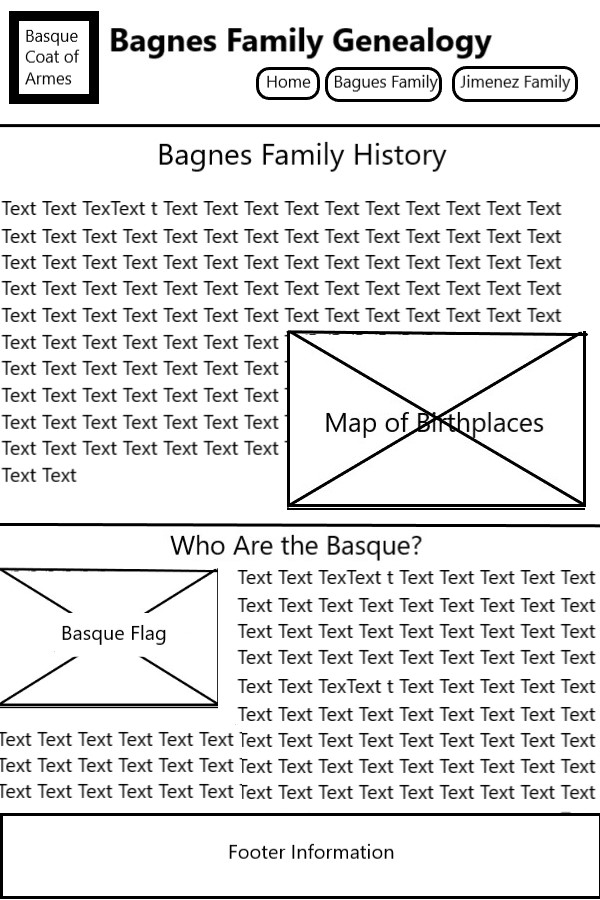
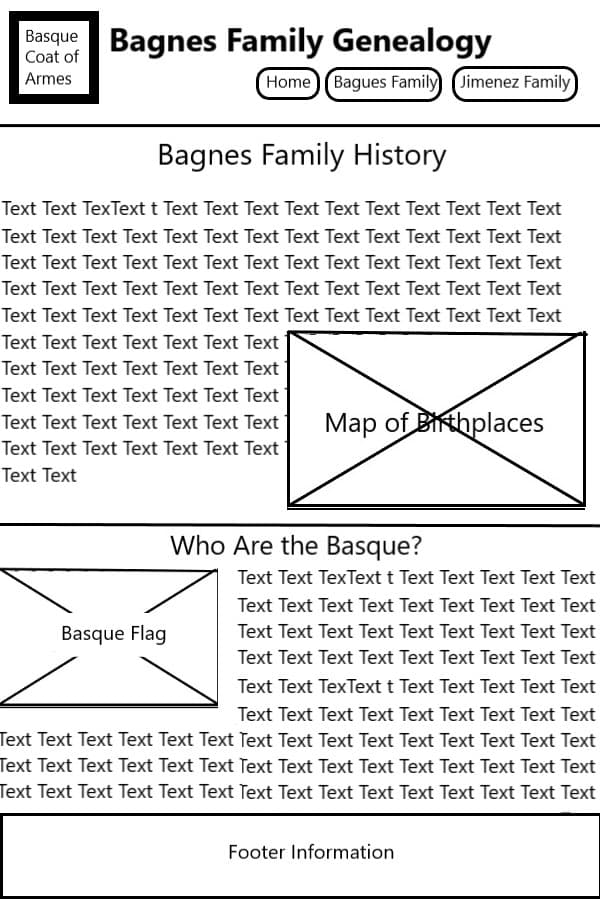
resized and changed filetype for images.

Changed region(s): [[0.78, 0.4667, 0.81, 0.4978], [0.75, 0.4356, 0.78, 0.4667], [0.66, 0.4356, 0.69, 0.4667]]

diff --git a/project/siteplan.html b/project/siteplan.html
@@ -60,8 +60,8 @@
         
         <h2>Wireframes:</h2>
         <div>
-                <img src="images/bagnes-genealogy-mobile-wireframe.jpg" alt="Mobile layout Wireframe">
-                <img src="images/bagnes-genealogy-desktop-wireframe.jpg" alt="Desktop layout Wireframe">
+                <img src="images/bagnes-genealogy-mobile-wireframe.webp" alt="Mobile layout Wireframe">
+                <img src="images/bagnes-genealogy-desktop-wireframe.webp" alt="Desktop layout Wireframe">
         </div>
     </main>
     <footer>
